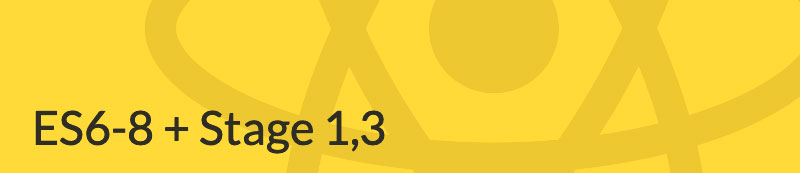
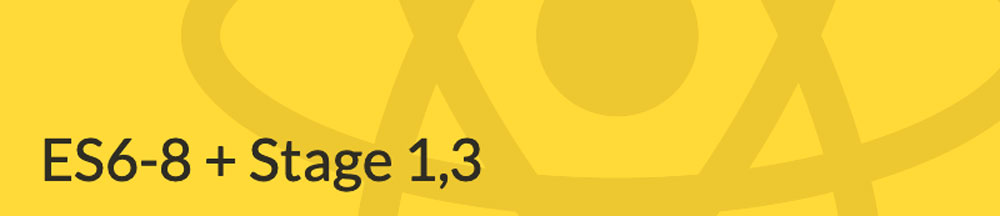
이미지 크기 조정 및 링크 주소 - 추가

diff --git a/README.md b/README.md
@@ -45,25 +45,25 @@ services/
 
 ## 목차
 
-- [블록 영역](#블록-영역)
-- [템플릿 리터럴](#템플릿-리터럴)
-- [태그 템플릿 리터럴](#태그-템플릿-리터럴)
-- [화살표 함수 & this](#화살표-함수--this)
-- [기본 매개변수](#기본-매개변수)
-- [나머지 매개변수](#나머지-매개변수)
-- [전개(spread) 문법](#전개spread-문법)
-- [String 인스턴스 메서드](#String-인스턴스-메서드)
-- [Array 인스턴스 메서드](#Array-인스턴스-메서드)
-- [Object 클래스 메서드](#Object-클래스-메서드)
-- [클래스 문법](#클래스-문법)
-- [구조 분해 할당](#구조-분해-할당)
-- [for...of](#forof)
-- [모듈](#모듈)
-- [계산된 속성](#계산된-속성)
-- [향상된 객체 표기 법](#향상된-객체-표기-법)
-- [후행 쉼표](#후행-쉼표)
-- [비동기 함수](#비동기-함수)
-- [체이닝 옵션](#체이닝-옵션)
+- [블록 영역](#블록-영역-)
+- [템플릿 리터럴](#템플릿-리터럴-)
+- [태그 템플릿 리터럴](#태그-템플릿-리터럴-)
+- [화살표 함수 & this](#화살표-함수--this-)
+- [기본 매개변수](#기본-매개변수-)
+- [나머지 매개변수](#나머지-매개변수-)
+- [전개(spread) 문법](#전개spread-문법-)
+- [String 인스턴스 메서드](#String-인스턴스-메서드-)
+- [Array 인스턴스 메서드](#Array-인스턴스-메서드-)
+- [Object 클래스 메서드](#Object-클래스-메서드-)
+- [클래스 문법](#클래스-문법-)
+- [구조 분해 할당](#구조-분해-할당-)
+- [for...of](#forof-)
+- [모듈](#모듈-)
+- [계산된 속성](#계산된-속성-)
+- [향상된 객체 표기 법](#향상된-객체-표기-법-)
+- [후행 쉼표](#후행-쉼표-)
+- [비동기 함수](#비동기-함수-)
+- [체이닝 옵션](#체이닝-옵션-)
 
 <br>
 
